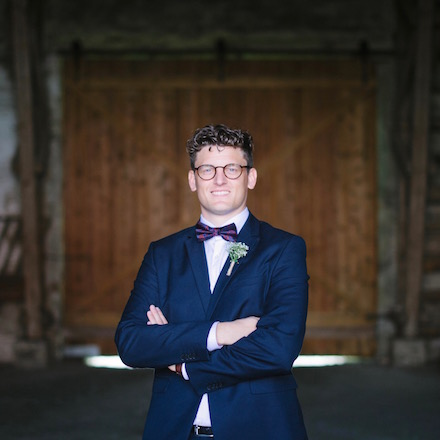
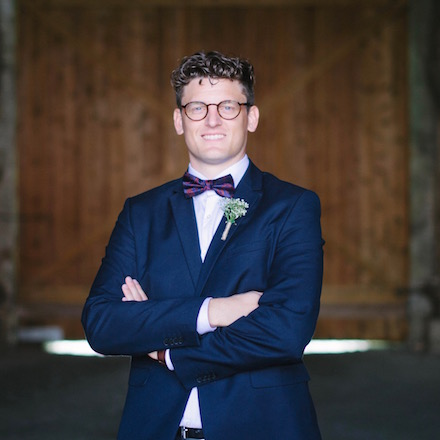
minor fixes

diff --git a/_layouts/page.html b/_layouts/page.html
@@ -2,6 +2,10 @@
 layout: default
 ---
 <div class="post">
+  {% if page.tags contains "about" %}
+        <img src="{{ site.baseurl }}/images/sbfp.jpg" alt="Søren Flø Larsen" class="avatar" />
+    {% endif %}
+
   <header class="post-header">
     <h1 class="h2">{{ page.title }}</h1>
   </header>

diff --git a/_sass/_posts.scss b/_sass/_posts.scss
@@ -20,6 +20,14 @@
   color: #333;
 }
 
+.post .avatar {
+  display: block;
+  margin-left: auto;
+  margin-right: auto;
+  width: 150px;
+  border-radius: 50%;
+}
+
 .post-footer {
   @extend .italic;
 

diff --git a/about.md b/about.md
@@ -5,6 +5,7 @@ permalink: /about/
 tags: about
 ---
 
+
 Hi my name is Søren Flø Larsen. I'm a programmer, solution architect and tech geek.
 
 Currently I work at [Bankdata](http://bankdata.dk/en), a large financial company delivering IT and solutions to 11 banks in Denmark.
@@ -33,7 +34,7 @@ As a **tech geek** I use a lot of my spare time playing around with new technolo
 
 **_My Career_**
 
-|2008|Microting|.NET CE Developer|
-|2008|Bankdata|COBOL Developer|
-|2010|Bankdata|Java Developer|
-|2012|Bankdata|Solution Architect|
+|2008 - 2008|Microting|.NET CE Developer|
+|2008 -     |Bankdata|COBOL Developer|
+|2010 -     |Bankdata|Java Developer|
+|2012 -     |Bankdata|Solution Architect|

diff --git a/404.md b/404.md
@@ -5,7 +5,7 @@ permalink: /404.html
 
 # 404
 
-Sorry, we can't seem to find this page's pixylls.
+Sorry, we can't seem to find this page.
 
 <div class="mt3">
   <a href="{{ site.baseurl }}/" class="button button-blue button-big">Home</a>
